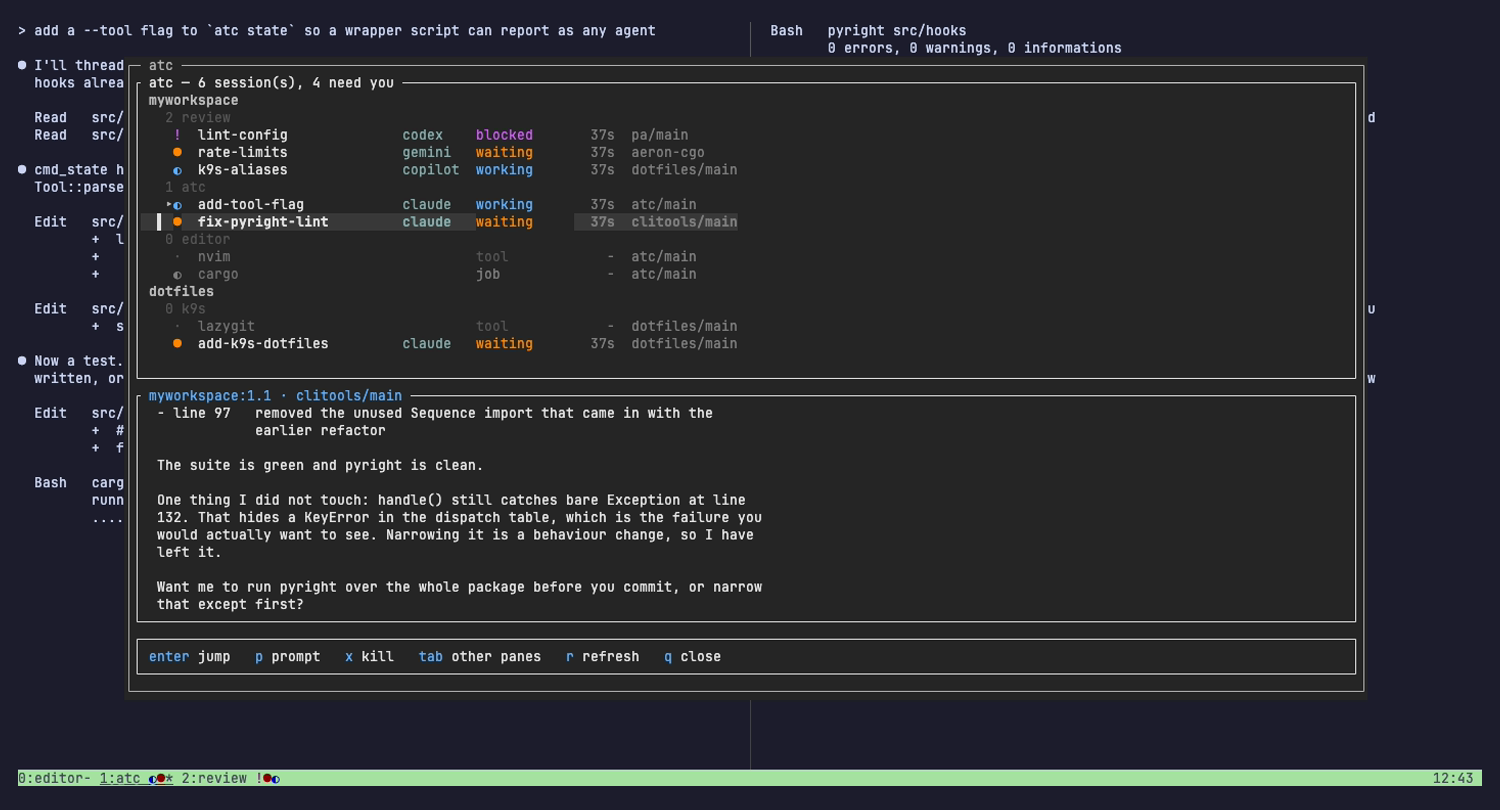
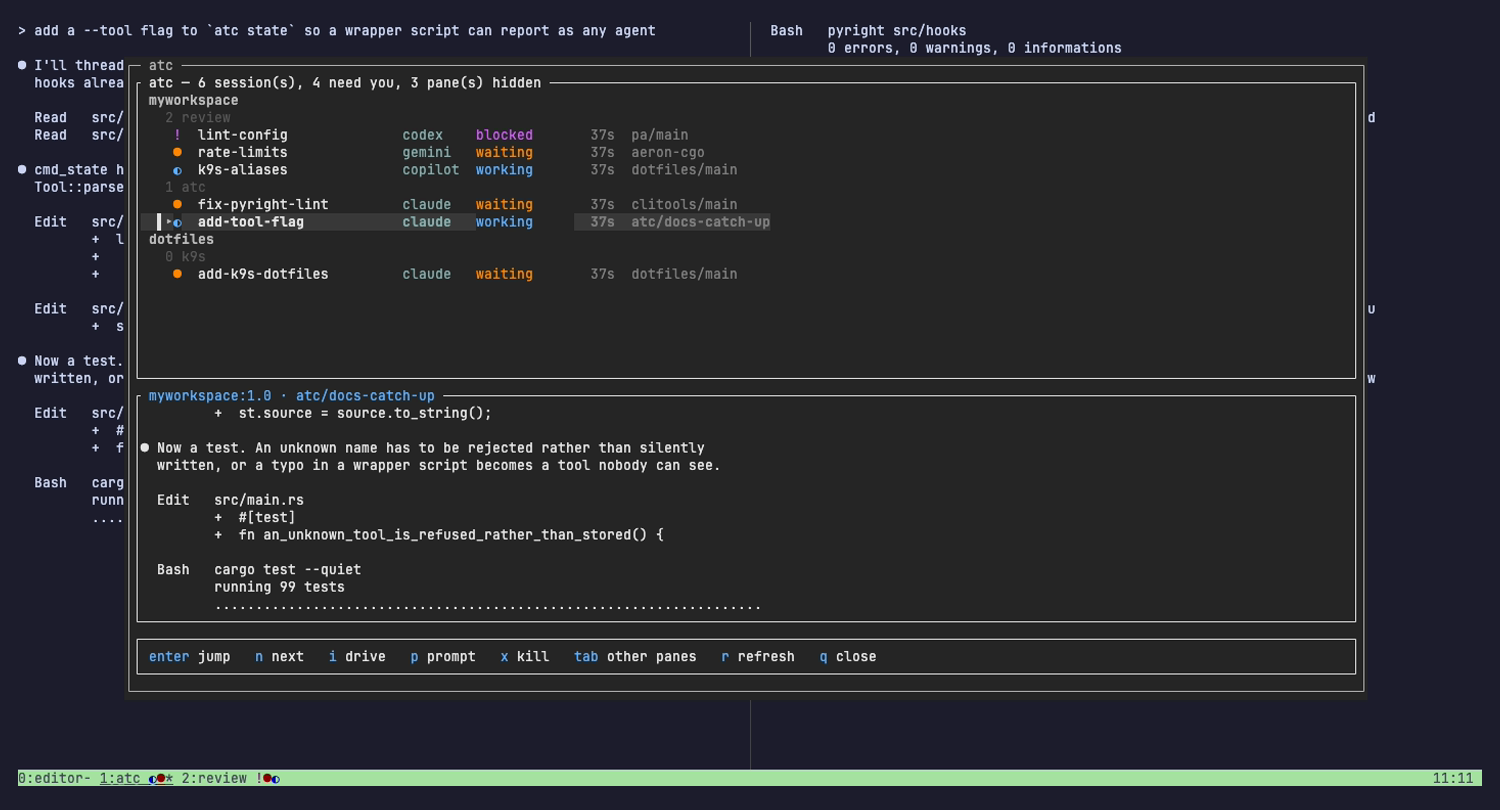
Bring the docs and the demo back in step
The screenshots predate drive mode, n, and a window leading with its
agents, and the README still promised panes in tmux order. Re-recorded,
and the claims around them corrected.

The demo itself had stopped working: its panes sit on a sleeper process,
which atc no longer reads as an agent, so staging produced a fleet of
jobs. Each pane now runs a binary named the way its agent names itself,
and staging fails rather than records if six hooks do not report.

Also fixed: row.tape could not be parsed at all, the agents-only
screenshot never showed agents only because a key pressed right after a
screenshot lands in it, and demo.conf carried one machine's home
directory so nobody else could record.

diff --git a/docs/demo/sleeper.rs b/docs/demo/sleeper.rs
@@ -1,0 +1,10 @@
+// A pane that stays alive and does nothing else.
+//
+// stage.sh copies this under each agent's own process name, because that name
+// is what atc detects a pane by: state is only believed while the pane could
+// still be running the agent that wrote it, so a demo pane sitting on `sleep`
+// would be read as an ordinary job. A copy of a system binary will not run on
+// macOS, so the demo builds its own.
+fn main() {
+    std::thread::sleep(std::time::Duration::from_secs(100_000));
+}

diff --git a/README.md b/README.md
@@ -233,7 +233,12 @@ something happens to it.
 - Every hook ends with `refresh-client -S`, so the bar updates the instant a
   session stops rather than on the next status interval.
 - The row reconciles against `tmux list-panes` on every render, so a killed
-  pane can't leave a ghost glyph behind.
+  pane can't leave a ghost glyph behind. A pane that outlives the agent in it
+  can't either: state is only believed while the pane could still be running
+  the thing that wrote it, so an agent that exits without firing its last hook
+  leaves a shell, not a session. The file is left alone rather than deleted,
+  because a pane briefly reports a pager the agent opened and a glyph that
+  comes back on its own beats state thrown away for good.
 - The one thing read rather than reported is an **unreported** pane's screen.
   The row redraws every two seconds, so each such pane is captured that often,
   up to twelve per render. A fleet where everything has reported captures
@@ -297,9 +302,8 @@ atc ask "which session has been waiting longest, and what did it last say?"
 
 ## The screenshots
 
-Everything above is a real tmux session whose state was written by the agents'
-own hooks — nothing is mocked up. `docs/demo/` rebuilds that fleet and
-re-records the lot:
+Everything above is a real tmux session, and `docs/demo/` rebuilds that fleet
+and re-records the lot:
 
 ```sh
 brew install vhs
@@ -309,6 +313,19 @@ vhs docs/demo/row.tape     # the status row, colour and mono
 
 It runs on its own tmux socket and its own `ATC_STATE_DIR`, so recording can't
 disturb a live session — and a live session can't disturb the recording.
+
+Worth being exact about what is real in those pictures, since it is the whole
+basis for believing them. **Every glyph comes from a hook.** Each demo pane
+calls `atc hook` the same way the agent itself would, through the same code,
+and staging fails rather than records if six agents do not report. The
+editor, the git TUI and the cold `cargo build` are genuinely those things, and
+each agent pane runs a process named the way that agent names itself, so the
+rows are detected rather than declared.
+
+What stands in: an agent's **screen** is a transcript in `docs/demo/screens/`,
+and behind it sits a program that does nothing but stay alive. Running four
+real agents to the same point on every take is not reproducible, and a picture
+of a fleet has to be.
 
 ## Licence
 
